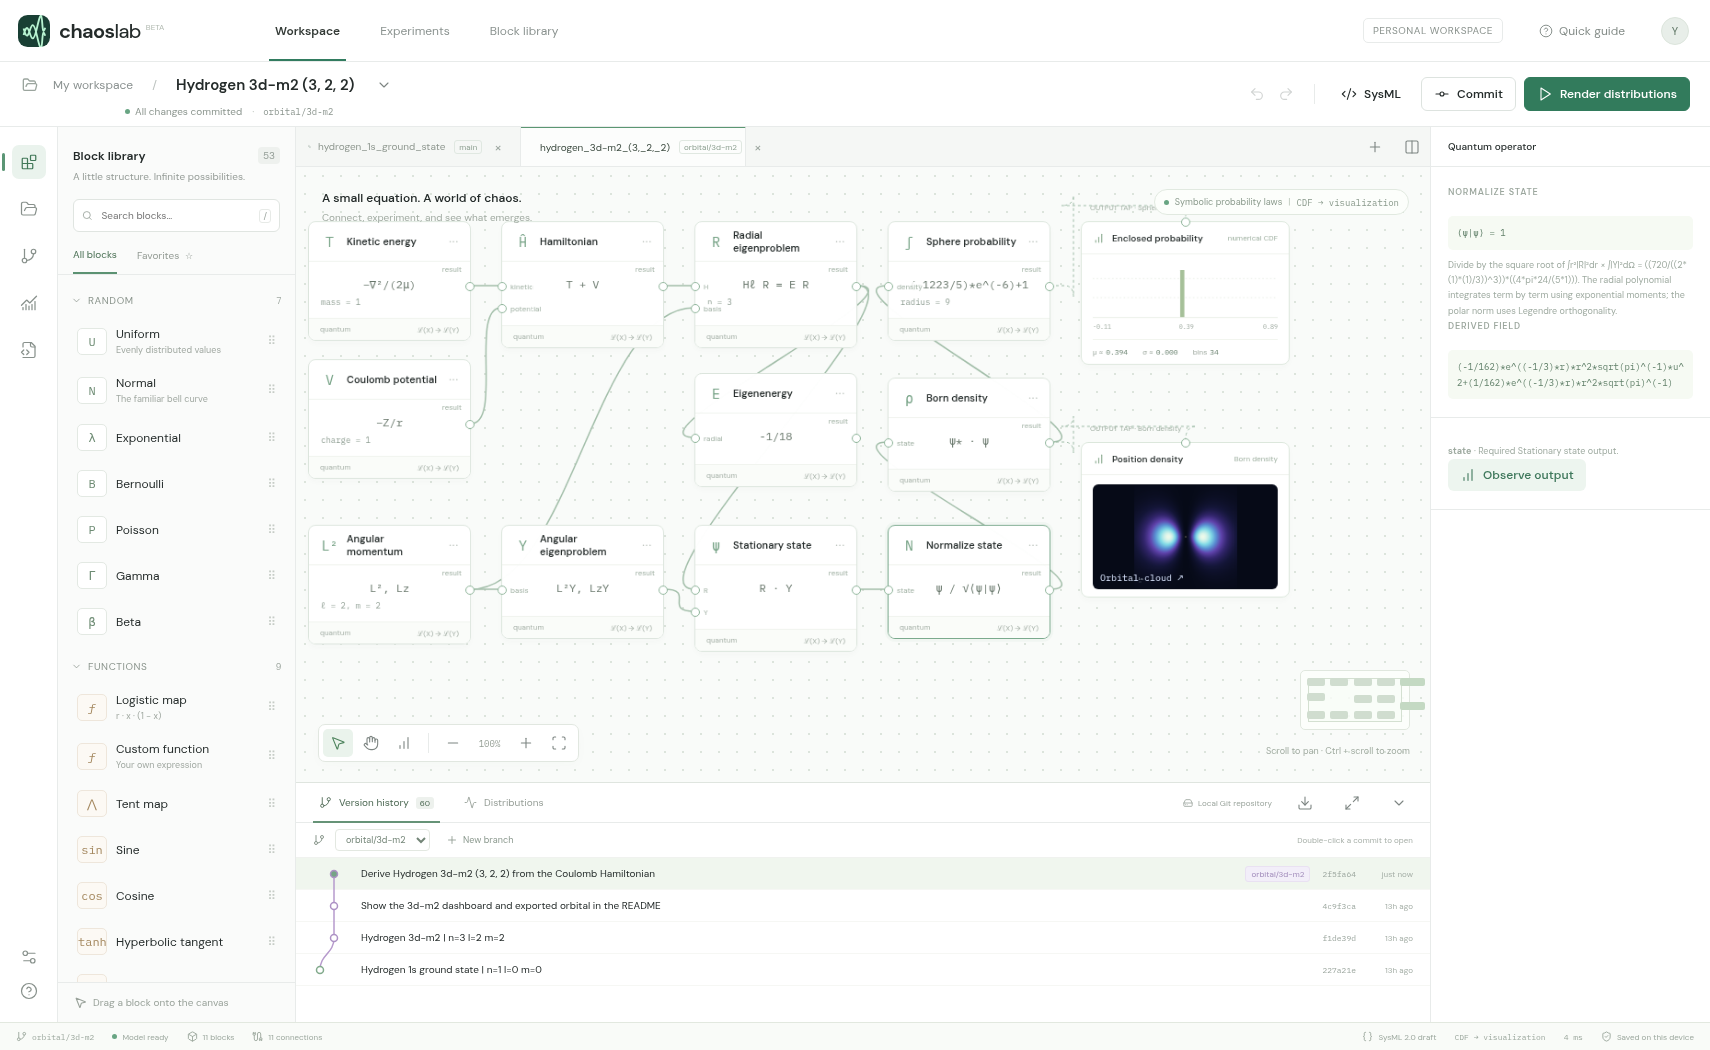
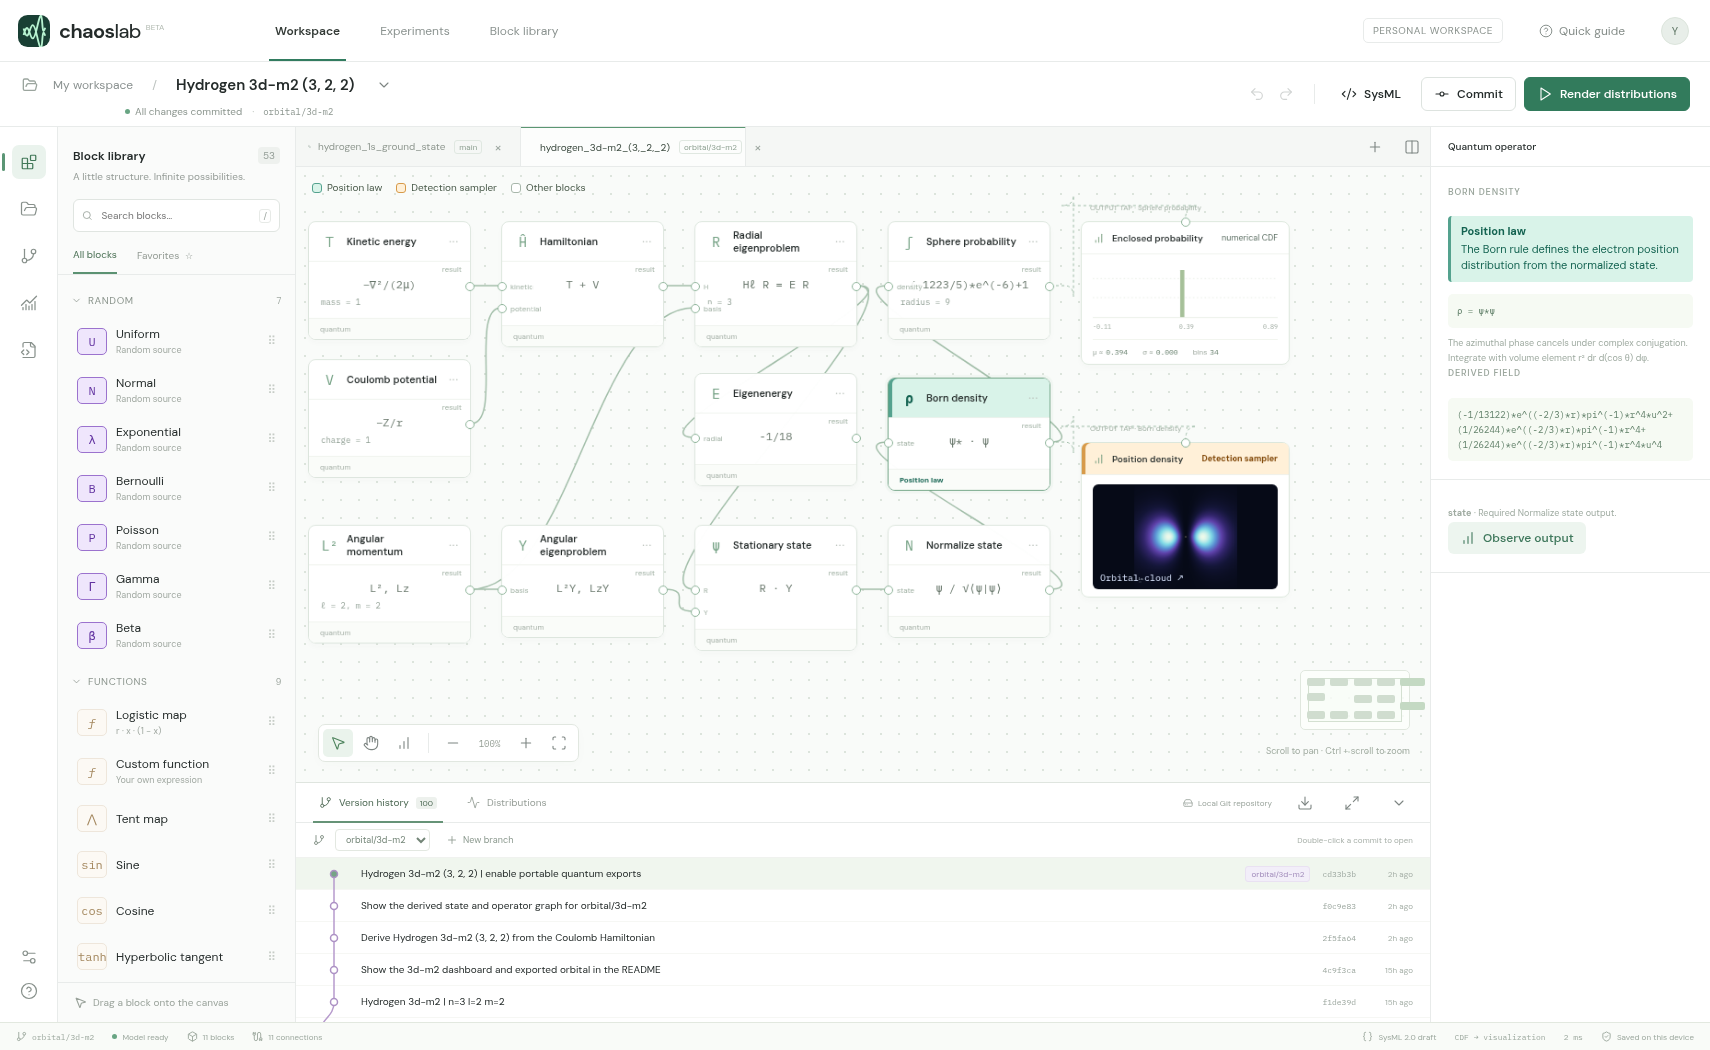
Hydrogen 3d-m2 (3, 2, 2) | identify the position law and detection sampler

diff --git a/studio.py b/studio.py
@@ -10,7 +10,7 @@ import tempfile
 import webbrowser
 
 ROOT = Path(__file__).resolve().parent
-STUDIO_REV = "1cc30c5632f1fe1f79a11ab6730f82c36a6c01e4"
+STUDIO_REV = "8657d6ecd3aa33a5a28f43219d5d6bfb8aa3edcc"
 STUDIO_REPO = "https://github.com/wa200508/chaos_lab.git"
 
 

diff --git a/README.md b/README.md
@@ -6,6 +6,8 @@ Open **Version history** in Chaos Lab to explore the 20 hydrogen designs in this
 
 The connected Hamiltonian and eigenstate solvers give $E=-1/18$ Hartree for this state.
 
+On the canvas, teal **Position law** marks where the Born rule defines the distribution of electron positions. Amber **Detection sampler** marks the tap that draws positions for the projected cloud. The central slice evaluates the density directly.
+
 ![Chaos Lab dashboard with the 3d model, m = 2, open in version history](dashboard.png)
 
 Radial nodes: 0. Polar nodes: 0. Plot half-width: 18 Bohr radii.
